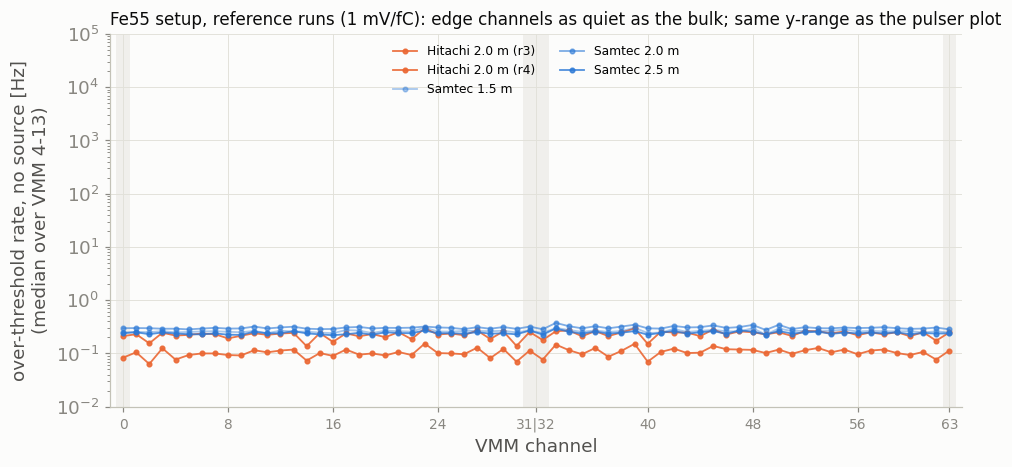
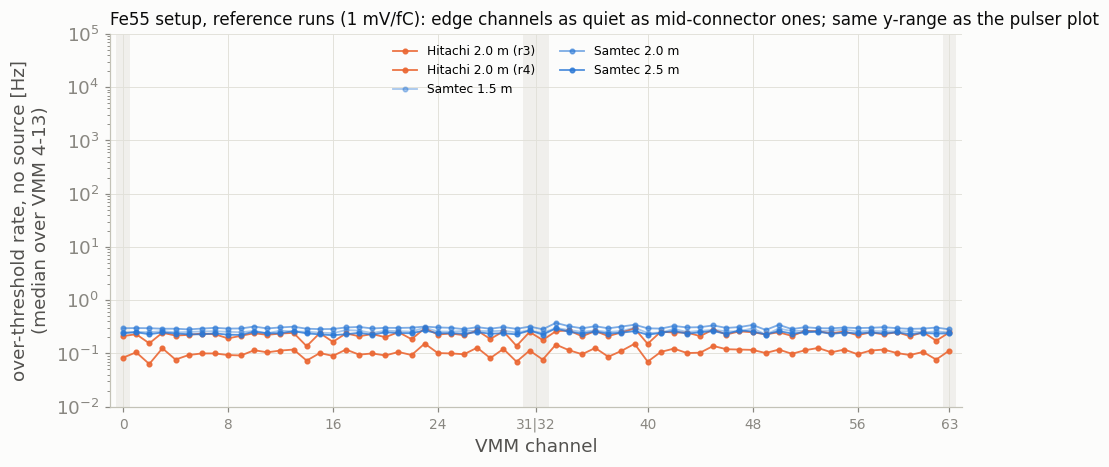
note: cable length — reference channels renamed mid-connector (ch 3-27, 36-60) instead of bulk

diff --git a/notes/unlisted/2026-10-07-cable-length-and-edge-channels-pulser-bench-vs-fe55.html b/notes/unlisted/2026-10-07-cable-length-and-edge-channels-pulser-bench-vs-fe55.html
@@ -45,11 +45,11 @@
       <div class="callout ok">
         <p><strong>Bottom line (Samtec).</strong> On the pulser bench, the VMM channels at the connector borders
         (0/1, 29–31, 62/63) appear to "break down" with long cables. They barely lose signal: the real pulse
-        amplitude on those channels loses at most ~2.5 % more than the bulk, even at 3 m. What changes is that
+        amplitude on those channels loses at most ~2.5 % more than the mid-connector channels, even at 3 m. What changes is that
         they <em>start self-triggering</em>: none up to 1.5 m, 0.1–0.4 kHz at 2.0 m, ~1 kHz at 2.5 m and ~3 kHz
         at 3.0 m (total length). Those noise hits (ADC ≈ 120–180) drag any mean or median of the ADC spectrum
         down. With Fe55 on the P2 detector (Samtec 1.5 / 2.0 / 2.5 m), the edge channels behave exactly like the
-        bulk, both in photopeak (within 0.6 %) and in noise (~0.3 Hz). <strong>Why only the bench:</strong> the
+        mid-connector channels (3–27, 36–60), both in photopeak (within 0.6 %) and in noise (~0.3 Hz). <strong>Why only the bench:</strong> the
         neighbour-trigger hits show the bench is 3–5× noisier than the detector at the same gain, and its edge
         channels get ~2× noisier again from 2 m on. There the noise reaches the threshold; on the detector it stays far
         below it (section 6). A typical channel loses about 9 %/m of signal on the bench and 13–17 %/m with Fe55,
@@ -58,9 +58,9 @@
 
       <h2>Samtec: what changes with cable length</h2>
       <figure>
-        <img src="2026-10-07-cable-length-and-edge-channels-pulser-bench-vs-fe55_files/samtec_summary.png" alt="Three panels for Samtec cables vs total length: bulk signal, edge-channel signal relative to bulk, and highest edge self-trigger rate">
+        <img src="2026-10-07-cable-length-and-edge-channels-pulser-bench-vs-fe55_files/samtec_summary.png" alt="Three panels for Samtec cables vs total length: mid-connector signal, edge-channel signal relative to mid-connector, and highest edge self-trigger rate">
         <figcaption>(a) Typical-channel signal, relative to 1.5 m, with a straight-line fit.
-        (b) Edge channels 0/31/32/63: their signal relative to the bulk, compared with the shortest cable.
+        (b) Edge channels 0/31/32/63: their signal relative to the mid-connector channels, compared with the shortest cable.
         Below 1 means the edges lose more than a typical channel.
         (c) The highest self-trigger rate among the edge channels. Triangles mean nothing fired in 10 s.
         The labels give the fraction of real 1.8 V pulses still recorded on the worst edge channel.</figcaption>
@@ -69,20 +69,20 @@
       <table>
         <thead><tr><th>Total Samtec length</th><th>1.0 m</th><th>1.5 m</th><th>2.0 m</th><th>2.5 m</th><th>3.0 m*</th></tr></thead>
         <tbody>
-          <tr><td>Pulser, bulk signal (3.3 V, /1.5 m)</td><td>1.055</td><td>1</td><td>0.951</td><td>0.910</td><td>0.864</td></tr>
-          <tr><td>Fe55, bulk signal (1 mV/fC, /1.5 m, ±4 %)</td><td>–</td><td>1</td><td>0.920</td><td>0.869</td><td>–</td></tr>
-          <tr><td>Fe55, bulk signal (3 mV/fC, /1.5 m, ±4 %)</td><td>–</td><td>1</td><td>0.904</td><td>0.831</td><td>–</td></tr>
-          <tr><td>Pulser, edge vs bulk (3.3 V, /1.0 m)</td><td>1</td><td>0.995</td><td>0.986</td><td>0.975</td><td>0.980</td></tr>
-          <tr><td>Fe55, edge vs bulk (1 mV/fC, /1.5 m)</td><td>–</td><td>1</td><td>1.003</td><td>1.003</td><td>–</td></tr>
+          <tr><td>Pulser, mid-connector signal (3.3 V, /1.5 m)</td><td>1.055</td><td>1</td><td>0.951</td><td>0.910</td><td>0.864</td></tr>
+          <tr><td>Fe55, mid-connector signal (1 mV/fC, /1.5 m, ±4 %)</td><td>–</td><td>1</td><td>0.920</td><td>0.869</td><td>–</td></tr>
+          <tr><td>Fe55, mid-connector signal (3 mV/fC, /1.5 m, ±4 %)</td><td>–</td><td>1</td><td>0.904</td><td>0.831</td><td>–</td></tr>
+          <tr><td>Pulser, edge vs mid-connector (3.3 V, /1.0 m)</td><td>1</td><td>0.995</td><td>0.986</td><td>0.975</td><td>0.980</td></tr>
+          <tr><td>Fe55, edge vs mid-connector (1 mV/fC, /1.5 m)</td><td>–</td><td>1</td><td>1.003</td><td>1.003</td><td>–</td></tr>
           <tr><td>Pulser, worst edge self-trigger rate (3.3 V)</td><td>none</td><td>none</td><td>0.4 kHz</td><td>1.0 kHz</td><td>3.6 kHz</td></tr>
           <tr><td>Pulser, real pulses kept on worst edge ch. (1.8 V)</td><td>1.00</td><td>1.00</td><td>0.92</td><td>0.85</td><td>0.80</td></tr>
           <tr><td>Detector, worst edge noise rate (no source)</td><td>–</td><td>0.3 Hz</td><td>0.4 Hz</td><td>0.3 Hz</td><td>–</td></tr>
-          <tr><td>Bench noise spread, bulk / worst edge (3 mV/fC) [ADC]</td><td>14.5 / 20</td><td>11 / 20</td><td>19 / 44</td><td>19 / 44</td><td>22 / 45</td></tr>
-          <tr><td>Detector noise spread, bulk / worst edge (3 mV/fC) [ADC]</td><td>–</td><td>4.0 / 4.2</td><td>3.5 / 4.2</td><td>3.5 / 4.0</td><td>–</td></tr>
-          <tr><td>Bench neighbour-hit level, median / mean, bulk (1.8 V) [ADC]</td><td>62 / 60</td><td>60 / 60</td><td>61 / 59</td><td>60 / 59</td><td>62 / 60</td></tr>
-          <tr><td>Bench neighbour-hit level, median, bulk / edge (1.8 V) [ADC]</td><td>62 / 57</td><td>60 / 56</td><td>61 / 60</td><td>60 / 62</td><td>62 / 64</td></tr>
-          <tr><td>Detector neighbour-hit level, median / mean, bulk (3 mV/fC) [ADC]</td><td>–</td><td>49 / 51</td><td>48 / 50</td><td>48 / 50</td><td>–</td></tr>
-          <tr><td>Detector neighbour-hit level, median, bulk / edge (3 mV/fC) [ADC]</td><td>–</td><td>49 / 48</td><td>48 / 48</td><td>48 / 48</td><td>–</td></tr>
+          <tr><td>Bench noise spread, mid-connector / worst edge (3 mV/fC) [ADC]</td><td>14.5 / 20</td><td>11 / 20</td><td>19 / 44</td><td>19 / 44</td><td>22 / 45</td></tr>
+          <tr><td>Detector noise spread, mid-connector / worst edge (3 mV/fC) [ADC]</td><td>–</td><td>4.0 / 4.2</td><td>3.5 / 4.2</td><td>3.5 / 4.0</td><td>–</td></tr>
+          <tr><td>Bench neighbour-hit level, median / mean, mid-connector (1.8 V) [ADC]</td><td>62 / 60</td><td>60 / 60</td><td>61 / 59</td><td>60 / 59</td><td>62 / 60</td></tr>
+          <tr><td>Bench neighbour-hit level, median, mid-connector / edge (1.8 V) [ADC]</td><td>62 / 57</td><td>60 / 56</td><td>61 / 60</td><td>60 / 62</td><td>62 / 64</td></tr>
+          <tr><td>Detector neighbour-hit level, median / mean, mid-connector (3 mV/fC) [ADC]</td><td>–</td><td>49 / 51</td><td>48 / 50</td><td>48 / 50</td><td>–</td></tr>
+          <tr><td>Detector neighbour-hit level, median, mid-connector / edge (3 mV/fC) [ADC]</td><td>–</td><td>49 / 48</td><td>48 / 48</td><td>48 / 48</td><td>–</td></tr>
         </tbody>
       </table>
       </div>
@@ -132,32 +132,33 @@
       </table>
       </div>
 
-      <h2>How to read the plots: "/ bulk" and "bulk ratio"</h2>
-      <p><strong>Bulk</strong> means the ordinary channels away from the connector edges: channels 3–60,
-      leaving out 28–35. It never contains 0/1/2, 29–34 or 61–63. The <strong>edge channels</strong>
-      (grey bands in the plots) are 0, 31, 32 and 63, at the borders of the connectors.</p>
+      <h2>How to read the plots: "/ mid-connector" and "mid-connector ratio"</h2>
+      <p>Each VMM's 64 channels leave the hybrid on two connector blocks, channels 0–31 and 32–63. The
+      <strong>edge channels</strong> (grey bands in the plots) are the ones at the ends of a block: 0, 31, 32 and 63.
+      The <strong>mid-connector channels</strong> are the reference: channels 3–27 and 36–60, i.e. at least
+      three channels away from either end of a block. They never include 0–2, 28–35 or 61–63.</p>
       <div class="grid">
         <div class="card">
-          <h3>Pulser: amplitude / bulk</h3>
+          <h3>Pulser: amplitude / mid-connector</h3>
           <p>Within one run, for each channel:</p>
           <ol>
             <li>take the median ADC of its in-time hits (within ±500 ns of a pulse);</li>
-            <li>divide by the median of the same quantity over the bulk channels of that run.</li>
+            <li>divide by the median of the same quantity over the mid-connector channels of that run.</li>
           </ol>
           <p>1.00 means "same as a typical channel in this run", 0.80 means "20 % smaller". Dividing by
-          the bulk removes the overall drop with length; what's left is the shape across the channels.</p>
+          the mid-connector median removes the overall drop with length; what's left is the shape across the channels.</p>
         </div>
         <div class="card">
-          <h3>Fe55: bulk ratio and edge / bulk</h3>
+          <h3>Fe55: mid-connector ratio and edge / mid-connector</h3>
           <ol>
             <li>For every channel (each VMM 4–13, each channel 0–63), fit the Fe55 photopeak with cable A
               and with cable B and take <code>r = peak<sub>A</sub> / peak<sub>B</sub></code>. It's the same pad
               on the same channel, so the pad's own gain cancels and only the cable effect remains.</li>
-            <li>The <strong>bulk ratio</strong> is the median of <code>r</code> over all bulk channels of all
+            <li>The <strong>mid-connector ratio</strong> is the median of <code>r</code> over all mid-connector channels of all
               VMMs. For Samtec 2.0 m / 1.5 m it is 0.920: a typical channel lost 8 % going from 1.5 to 2.0 m.
               This is the number in the legend.</li>
             <li>For each channel number, take the median of <code>r</code> over the VMMs and divide by the
-              bulk ratio. That's what's plotted.</li>
+              mid-connector ratio. That's what's plotted.</li>
           </ol>
           <p>1.00 means the channel lost exactly as much as a typical channel. An edge channel that suffered
           more from the longer cable would sit below 1.</p>
@@ -165,13 +166,13 @@
       </div>
 
       <h3>Why the Fe55 edge-ratio plot used to show no 10 % loss</h3>
-      <p>Dividing by the bulk ratio removes the overall cable loss on purpose: the question that plot answers is
-      "does any channel lose <em>more</em> than a typical channel?". The loss itself is in the bulk ratio. The figure in
+      <p>Dividing by the mid-connector ratio removes the overall cable loss on purpose: the question that plot answers is
+      "does any channel lose <em>more</em> than a typical channel?". The loss itself is in the mid-connector ratio. The figure in
       section 4 now shows both: the raw per-channel ratio on top, where the 8 % and 13 % losses are visible as the
       level of each set of points, and the normalised ratio below.</p>
-      <p><strong>Bulk channels or all channels?</strong> The reference excludes the channels under test, so that an edge
+      <p><strong>Mid-connector channels or all channels?</strong> The reference excludes the channels under test, so that an edge
       effect can't hide inside its own reference. In practice it makes no difference here: the edge channels are 4 out
-      of 64, and the median over all channels equals the bulk median to 0.001 (Samtec 2.0/1.5 m: 0.920 vs 0.920; 2.5/1.5 m:
+      of 64, and the median over all channels equals the mid-connector median to 0.001 (Samtec 2.0/1.5 m: 0.920 vs 0.920; 2.5/1.5 m:
       0.869 vs 0.870 at 1 mV/fC).</p>
 
       <h2>1. Which channels are actually pulsed</h2>
@@ -182,13 +183,13 @@
       (Hitachi 50 cm + 2 m, 1.8 V, "3k+2", 17:05).</p>
 
       <h2>2. Pulser: edge amplitude barely depends on length</h2>
-      <p>The pulse clock comes from clean bulk channels of the same run. Only hits within ±500 ns of a
+      <p>The pulse clock comes from clean mid-connector channels of the same run. Only hits within ±500 ns of a
       pulse count as signal; everything else counts as noise.</p>
       <figure>
-        <img src="2026-10-07-cable-length-and-edge-channels-pulser-bench-vs-fe55_files/pulser_amplitude_vs_channel_3V3.png" alt="In-time pulse amplitude relative to the bulk vs VMM channel, one curve per cable length">
-        <figcaption>In-time pulse amplitude / bulk, 3.3 V. The dome (ch 0 ≈ 0.89, ch 63 ≈ 0.79, centre ≈ 1.03–1.10)
+        <img src="2026-10-07-cable-length-and-edge-channels-pulser-bench-vs-fe55_files/pulser_amplitude_vs_channel_3V3.png" alt="In-time pulse amplitude relative to the mid-connector channels vs VMM channel, one curve per cable length">
+        <figcaption>In-time pulse amplitude / mid-connector, 3.3 V. The dome (ch 0 ≈ 0.89, ch 63 ≈ 0.79, centre ≈ 1.03–1.10)
         is almost the same for every length and for both cables, so it belongs to the injection setup,
-        not to the cable. With Samtec, the edges drop by at most ~2.5 % more than the bulk between 1 m and 3 m
+        not to the cable. With Samtec, the edges drop by at most ~2.5 % more than the mid-connector channels between 1 m and 3 m
         (see the Samtec section). Channels 31/32 are not low.</figcaption>
       </figure>
 
@@ -208,10 +209,10 @@
 
       <h2>4. Fe55 on the detector: no edge effect</h2>
       <figure>
-        <img src="2026-10-07-cable-length-and-edge-channels-pulser-bench-vs-fe55_files/fe55_edge_ratio_vs_channel_1mVfC.png" alt="Fe55 photopeak ratio between cable lengths per channel: raw on top, normalised to the bulk ratio below">
+        <img src="2026-10-07-cable-length-and-edge-channels-pulser-bench-vs-fe55_files/fe55_edge_ratio_vs_channel_1mVfC.png" alt="Fe55 photopeak ratio between cable lengths per channel: raw on top, normalised to the mid-connector ratio below">
         <figcaption>Per-channel Fe55 photopeak, ratio between two cables on the same channel (pad gain cancels).
-        <strong>Top:</strong> raw ratio; the dashed lines are the bulk ratios (0.920 for 2.0/1.5 m, 0.869 for 2.5/1.5 m), i.e.
-        the cable loss. <strong>Bottom:</strong> divided by the bulk ratio; edge channels sit at 1.00 ± 0.01 for every pair.
+        <strong>Top:</strong> raw ratio; the dashed lines are the mid-connector ratios (0.920 for 2.0/1.5 m, 0.869 for 2.5/1.5 m), i.e.
+        the cable loss. <strong>Bottom:</strong> divided by the mid-connector ratio; edge channels sit at 1.00 ± 0.01 for every pair.
         The grey points compare the same Hitachi cable measured twice, as a reference for "no change".</figcaption>
       </figure>
       <figure>
@@ -221,10 +222,10 @@
         bench, so an oscillation of the same size would show up.</figcaption>
       </figure>
 
-      <h2>5. Bulk signal vs length</h2>
+      <h2>5. Mid-connector signal vs length</h2>
       <figure>
-        <img src="2026-10-07-cable-length-and-edge-channels-pulser-bench-vs-fe55_files/bulk_signal_vs_length.png" alt="Bulk signal relative to Samtec 1.5 m vs total cable length, pulser and Fe55">
-        <figcaption>Bulk signal, indexed to Samtec 1.5 m. Pulser Samtec: about −9.5 %/m. Fe55 Samtec: −8.0 % (1.5→2.0 m)
+        <img src="2026-10-07-cable-length-and-edge-channels-pulser-bench-vs-fe55_files/mid_connector_signal_vs_length.png" alt="Mid-connector signal relative to Samtec 1.5 m vs total cable length, pulser and Fe55">
+        <figcaption>Mid-connector signal, indexed to Samtec 1.5 m. Pulser Samtec: about −9.5 %/m. Fe55 Samtec: −8.0 % (1.5→2.0 m)
         and −5.4 % (2.0→2.5 m; these two runs were taken 9 min apart). For reference only (Hitachi will not be
         used): Hitachi beats Samtec at the same length, +5–7 % on the pulser bench and +14–18 % with Fe55.</figcaption>
       </figure>
@@ -245,13 +246,13 @@
         <img src="2026-10-07-cable-length-and-edge-channels-pulser-bench-vs-fe55_files/noise_bench_vs_detector_3V3.png" alt="Level (median ADC) and spread of neighbour-trigger hits vs channel for the pulser bench and the detector, and vs cable length">
         <figcaption><strong>Top row: level</strong> (median ADC of the neighbour-trigger hits). <strong>Bottom row: spread.</strong>
         (a) Bench, Samtec, 3.3 V pulses, 3 mV/fC. (b) Detector, Samtec, Fe55 at 3 mV/fC. Same y-axes.
-        (c) vs length: bulk median, edge median (top) or worst edge (bottom), and bulk mean (top, triangles), for the
+        (c) vs length: mid-connector median, edge median (top) or worst edge (bottom), and mid-connector mean (top, triangles), for the
         bench at 3.3 V (solid) and 1.8 V (dashed, least crosstalk) and the detector at 3 and 1 mV/fC.</figcaption>
       </figure>
       <ul>
-        <li><strong>The bench is 3–5× noisier</strong> at the same gain: bulk spread 11–22 ADC against ~4 ADC on the detector.</li>
+        <li><strong>The bench is 3–5× noisier</strong> at the same gain: mid-connector spread 11–22 ADC against ~4 ADC on the detector.</li>
         <li><strong>On the bench the edge channels are the noisiest,</strong> and from 2 m they jump from ~20 to ~45 ADC. On the
-          detector the edges are like the bulk (≤ 4.2 ADC) and nothing changes from 1.5 to 2.5 m.</li>
+          detector the edges are like the mid-connector channels (≤ 4.2 ADC) and nothing changes from 1.5 to 2.5 m.</li>
         <li><strong>It is noise, not crosstalk from the pulses.</strong> The level of the neighbour hits rises with the pulser
           voltage (62 → 72 ADC from 1.8 to 3.3 V: that part is crosstalk). The spread does not change with the voltage
           (e.g. 2.0 m: 17.5 / 17.5 / 19.0 ADC at 1.8 / 2.5 / 3.3 V).</li>
@@ -262,13 +263,13 @@
         <li><strong>The level differs between the setups by ~12 ADC</strong> (60 vs 48 at 3 mV/fC). That's not a noise
           difference: the two use different hybrids with their own pedestals, and the bench level includes crosstalk from
           the pulsed neighbours. Its per-channel zigzag in (a) follows the 3-channel pulse pattern.</li>
-        <li><strong>Edge channels:</strong> on the detector their level is the same as the bulk (48 vs 48). On the bench it is
-          4–5 ADC lower with short cables (56–57 vs 60–62 at 1.8 V) and reaches the bulk level from 2 m. The bench edges are
-          different from the bulk, the detector edges are not.</li>
+        <li><strong>Edge channels:</strong> on the detector their level is the same as the mid-connector channels (48 vs 48). On the bench it is
+          4–5 ADC lower with short cables (56–57 vs 60–62 at 1.8 V) and reaches the mid-connector level from 2 m. The bench edges are
+          different from the mid-connector channels, the detector edges are not.</li>
       </ul>
       <p>This explains the self-triggering in numbers. The threshold sits at ~150 ADC on the bench and ~140 ADC on the
       detector, with the baseline at ~65 and ~48 ADC, so the margin is ~85–90 ADC in both. On the detector that is more
-      than 20 times the noise spread: the noise never reaches threshold. On the bench it is ~4–8 times the bulk spread,
+      than 20 times the noise spread: the noise never reaches threshold. On the bench it is ~4–8 times the mid-connector spread,
       ~4.5 times on the edge channels up to 1.5 m (a few tens of Hz were seen on Hitachi 1.5 m) and only ~2 times on the
       edge channels from 2 m: those channels fire on noise at the kHz level.</p>
 
@@ -278,7 +279,7 @@
         <thead><tr><th></th><th>Pulser</th><th>Fe55</th></tr></thead>
         <tbody>
           <tr><td>Typical-channel loss per metre (Samtec)</td><td>~9 %/m (length and day confounded)</td><td>13–17 %/m (length and gain drift confounded)</td></tr>
-          <tr><td>Noise spread at 3 mV/fC, bulk / edge</td><td>11–22 / up to 45 ADC, grows with length</td><td>~4 / ~4 ADC, flat</td></tr>
+          <tr><td>Noise spread at 3 mV/fC, mid-connector / edge</td><td>11–22 / up to 45 ADC, grows with length</td><td>~4 / ~4 ADC, flat</td></tr>
           <tr><td>Hitachi vs Samtec (reference only)</td><td>Hitachi better</td><td>Hitachi better</td></tr>
           <tr><td>Edge channels lose more signal with length (Samtec)</td><td><strong>≤ 2.5 %</strong> at 3 m (section 2)</td><td><strong>No</strong>, &lt; 0.6 % at 2.5 m (section 4)</td></tr>
           <tr><td>Edge channels self-trigger on long cables</td><td><strong>Yes</strong> (section 3)</td><td><strong>No</strong> (section 4)</td></tr>

diff --git a/notes/hub-all-7c1e9a4d.html b/notes/hub-all-7c1e9a4d.html
@@ -57,7 +57,7 @@
           <p class="note-desc">The pulser edge-channel &#x27;breakdown&#x27; on long off-detector cables is self-triggering noise, not signal loss; no edge effect with Fe55 on the P2 detector</p>
           <div class="meta-row small">
             <span class="pill">Detector R&amp;D</span><span class="pill" style="background:#fde8e8;color:#b42318">unlisted</span><span class="pill gray">VMM</span><span class="pill gray">cables</span><span class="pill gray">P2</span><span class="pill gray">Fe55</span><span class="pill gray">pulser</span><span class="pill gray">hybrid</span>
-            <span class="faint">unlisted/2026-10-07-cable-length-and-edge-channels-pulser-bench-vs-fe55.html · 27.6 kB</span>
+            <span class="faint">unlisted/2026-10-07-cable-length-and-edge-channels-pulser-bench-vs-fe55.html · 28.3 kB</span>
           </div>
         </div>
         <time class="note-date" datetime="2026-10-07">2026-10-07<span class="faint small"> · updated 2026-10-08</span></time>
